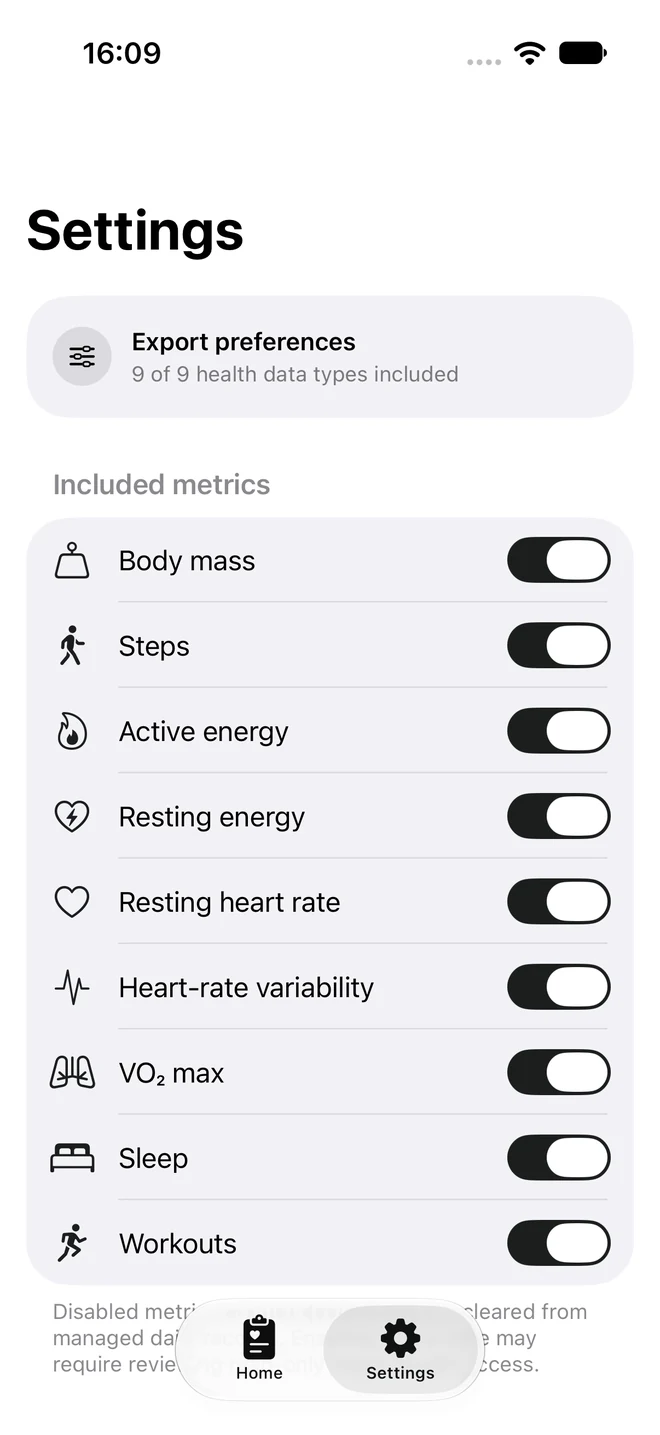
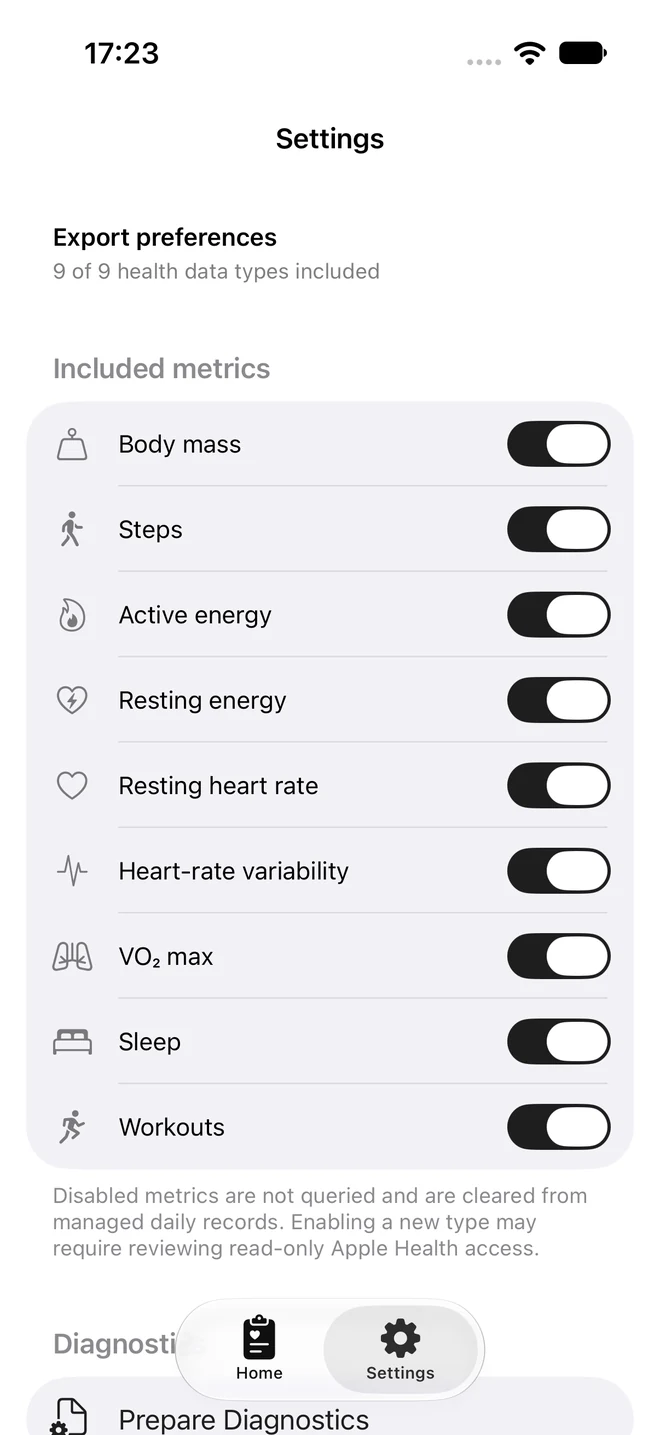
feat: refine app typography and spacing

diff --git a/HealthMuleApp/UI/Components/HealthMuleDesign.swift b/HealthMuleApp/UI/Components/HealthMuleDesign.swift
@@ -3,22 +3,22 @@ import SwiftUI
 enum HealthMuleStyle {
     static let contentWidth: CGFloat = 720
     static let pagePadding: CGFloat = 20
-    static let cardRadius: CGFloat = 20
-    static let sectionSpacing: CGFloat = 24
-    static let rowIconSize: CGFloat = 36
+    static let cardRadius: CGFloat = 18
+    static let sectionSpacing: CGFloat = 28
+    static let rowIconSize: CGFloat = 28
 
     /// One canonical scale so screens cannot drift apart. Card titles and body
     /// copy sit a step below the system defaults, which read oversized in a
     /// dense status app.
     enum Text {
-        static let heroTitle = Font.title3.weight(.semibold)
-        static let heroMessage = Font.callout
-        static let sectionTitle = Font.headline
+        static let heroTitle = Font.title2.weight(.semibold)
+        static let heroMessage = Font.subheadline
+        static let sectionTitle = Font.subheadline.weight(.semibold)
         static let sectionSubtitle = Font.footnote
         static let cardTitle = Font.subheadline.weight(.semibold)
         static let cardBody = Font.footnote
         static let factLabel = Font.caption2.weight(.medium)
-        static let factValue = Font.subheadline.weight(.semibold)
+        static let factValue = Font.subheadline.weight(.medium)
     }
 
     static var canvas: Color {
@@ -34,11 +34,11 @@ enum HealthMuleStyle {
     }
 
     static var hairline: Color {
-        Color.primary.opacity(0.07)
+        Color.primary.opacity(0.05)
     }
 
     static var inset: Color {
-        Color.primary.opacity(0.055)
+        Color.primary.opacity(0.04)
     }
 }
 
@@ -56,7 +56,7 @@ enum StatusTone: Equatable {
         case .accent:
             .primary
         case .success:
-            .green
+            .secondary
         case .warning:
             .orange
         case .danger:
@@ -101,13 +101,13 @@ struct StatusGlyph: View {
     let systemImage: String
     var tone: StatusTone = .neutral
     var size = HealthMuleStyle.rowIconSize
+    @ScaledMetric(relativeTo: .body) private var iconScale: CGFloat = 1
 
     var body: some View {
         Image(systemName: systemImage)
-            .font(.subheadline.weight(.semibold))
+            .font(.body.weight(.regular))
             .foregroundStyle(tone.color)
-            .frame(width: size, height: size)
-            .background(tone.color.opacity(0.1), in: Circle())
+            .frame(width: size * iconScale, height: size * iconScale)
             .accessibilityHidden(true)
     }
 }
@@ -187,16 +187,13 @@ struct StatusBadge: View {
         HStack(spacing: 6) {
             Circle()
                 .fill(tone.color)
-                .frame(width: 7, height: 7)
+                .frame(width: 5, height: 5)
                 .accessibilityHidden(true)
             Text(title)
-                .font(.caption.weight(.semibold))
-                .foregroundStyle(.primary)
+                .font(.caption.weight(.medium))
+                .foregroundStyle(.secondary)
                 .multilineTextAlignment(.leading)
         }
-        .padding(.horizontal, 10)
-        .padding(.vertical, 6)
-        .background(Color.primary.opacity(0.08), in: Capsule())
         .accessibilityElement(children: .combine)
     }
 }
@@ -243,28 +240,33 @@ struct StatusHero<Action: View>: View {
         VStack(alignment: .leading, spacing: 14) {
             StatusBadge(title: badge, tone: tone)
                 .accessibilityIdentifier("status-hero-badge")
-            Text(title)
-                .font(HealthMuleStyle.Text.heroTitle)
-                .accessibilityIdentifier("status-hero-title")
-            Text(message)
-                .font(HealthMuleStyle.Text.heroMessage)
-                .foregroundStyle(.secondary)
-                .accessibilityIdentifier("status-hero-message")
+            VStack(alignment: .leading, spacing: 8) {
+                Text(title)
+                    .font(HealthMuleStyle.Text.heroTitle)
+                    .accessibilityIdentifier("status-hero-title")
+                Text(message)
+                    .font(HealthMuleStyle.Text.heroMessage)
+                    .foregroundStyle(.secondary)
+                    .accessibilityIdentifier("status-hero-message")
+            }
 
             if let progress, progress.totalUnits > 0 {
                 SyncDayProgressView(progress: progress)
             }
 
             if showsActionPlaceholder {
-                RoundedRectangle(cornerRadius: 14, style: .continuous)
+                RoundedRectangle(cornerRadius: 12, style: .continuous)
                     .fill(HealthMuleStyle.inset)
                     .frame(height: 52)
                     .accessibilityHidden(true)
             } else {
                 action()
                     .frame(maxWidth: .infinity)
+                    .font(HealthMuleStyle.Text.cardTitle)
                     .buttonStyle(.borderedProminent)
+                    .buttonBorderShape(.roundedRectangle(radius: 12))
                     .tint(HealthMuleStyle.tint)
+                    .foregroundStyle(HealthMuleStyle.canvas)
                     .controlSize(.large)
             }
         }
@@ -336,7 +338,7 @@ struct SyncFactsRow: View {
             Text(fact.label)
                 .font(HealthMuleStyle.Text.factLabel)
                 .foregroundStyle(.secondary)
-                .lineLimit(1)
+                .lineLimit(compact ? 1 : nil)
             Text(shown)
                 .font(HealthMuleStyle.Text.factValue)
                 .monospacedDigit()

diff --git a/HealthMuleApp/UI/SettingsView.swift b/HealthMuleApp/UI/SettingsView.swift
@@ -2,6 +2,7 @@ import SwiftUI
 
 struct SettingsView: View {
     @Bindable var model: AppModel
+    @ScaledMetric(relativeTo: .subheadline) private var metricIconWidth: CGFloat = 22
     @State private var isShowingResetConfirmation = false
     @State private var isShowingDisconnectConfirmation = false
 
@@ -18,8 +19,9 @@ struct SettingsView: View {
                 .listRowSeparator(.hidden)
         }
         .navigationTitle("Settings")
+        .navigationBarTitleDisplayMode(.inline)
         .formStyle(.grouped)
-        .listSectionSpacing(20)
+        .listSectionSpacing(24)
         .contentMargins(.top, 12, for: .scrollContent)
         .scrollContentBackground(.hidden)
         .background(HealthMuleStyle.canvas)
@@ -56,25 +58,20 @@ struct SettingsView: View {
 
     private var overviewSection: some View {
         Section {
-            HStack(alignment: .top, spacing: 12) {
-                StatusGlyph(
-                    systemImage: "slider.horizontal.3",
-                    tone: .accent
+            VStack(alignment: .leading, spacing: 4) {
+                Text("Export preferences")
+                    .font(HealthMuleStyle.Text.sectionTitle)
+                Text(
+                    "\(model.enabledMetrics.count) of \(HealthMetric.allCases.count) health data types included"
                 )
-                VStack(alignment: .leading, spacing: 3) {
-                    Text("Export preferences")
-                        .font(HealthMuleStyle.Text.cardTitle)
-                    Text(
-                        "\(model.enabledMetrics.count) of \(HealthMetric.allCases.count) health data types included"
-                    )
-                    .font(HealthMuleStyle.Text.cardBody)
-                    .foregroundStyle(.secondary)
-                }
+                .font(HealthMuleStyle.Text.cardBody)
+                .foregroundStyle(.secondary)
             }
             .padding(.vertical, 4)
             .accessibilityElement(children: .combine)
         }
-        .listRowBackground(HealthMuleStyle.surface)
+        .listRowBackground(Color.clear)
+        .listRowInsets(EdgeInsets(top: 0, leading: 16, bottom: 0, trailing: 16))
     }
 
     private var metricsSection: some View {
@@ -84,7 +81,15 @@ struct SettingsView: View {
                     get: { model.enabledMetrics.contains(metric) },
                     set: { model.setMetric(metric, enabled: $0) }
                 )) {
-                    Label(metric.title, systemImage: metric.settingsSystemImage)
+                    Label {
+                        Text(metric.title)
+                            .font(.subheadline)
+                    } icon: {
+                        Image(systemName: metric.settingsSystemImage)
+                            .font(.subheadline)
+                            .foregroundStyle(.secondary)
+                            .frame(width: metricIconWidth)
+                    }
                 }
                 .disabled(model.operationState.isWorking)
             }

diff --git a/HealthMuleApp/UI/StatusView.swift b/HealthMuleApp/UI/StatusView.swift
@@ -39,9 +39,7 @@ struct StatusView: View {
         }
         .background(HealthMuleStyle.canvas)
         .navigationTitle("HealthMule")
-        .navigationBarTitleDisplayMode(
-            dynamicTypeSize.isAccessibilitySize ? .inline : .large
-        )
+        .navigationBarTitleDisplayMode(.inline)
         .accessibilityIdentifier("home-screen")
         .refreshable {
             await model.applicationDidBecomeActive()
@@ -174,7 +172,7 @@ struct StatusView: View {
         VStack(spacing: 0) {
             healthConnectionCard
             Divider()
-                .padding(.leading, 52)
+                .padding(.leading, 56)
             googleConnectionCard
         }
         .healthMuleCard(padding: 0)
@@ -185,7 +183,7 @@ struct StatusView: View {
             ConnectionCard(
                 title: "Apple Health",
                 detail: healthConnectionDetail,
-                systemImage: "heart.fill",
+                systemImage: "heart",
                 badge: healthConnectionBadge,
                 tone: healthConnectionTone
             )
@@ -199,7 +197,7 @@ struct StatusView: View {
             ConnectionCard(
                 title: "Google Drive",
                 detail: googleConnectionDetail,
-                systemImage: "externaldrive.fill",
+                systemImage: "externaldrive",
                 badge: googleConnectionBadge,
                 tone: googleConnectionTone
             )
@@ -283,7 +281,7 @@ struct StatusView: View {
             StatusGlyph(
                 systemImage: "clock.arrow.circlepath",
                 tone: tone,
-                size: 34
+                size: HealthMuleStyle.rowIconSize
             )
 
             VStack(alignment: .leading, spacing: 2) {
@@ -323,7 +321,7 @@ struct StatusView: View {
             StatusGlyph(
                 systemImage: "clock.arrow.circlepath",
                 tone: .neutral,
-                size: 34
+                size: HealthMuleStyle.rowIconSize
             )
 
             VStack(alignment: .leading, spacing: 2) {
@@ -840,14 +838,14 @@ private struct ConnectionCard: View {
             }
         }
         .frame(maxWidth: .infinity, alignment: .leading)
-        .padding(18)
+        .padding(16)
         .contentShape(Rectangle())
         .accessibilityElement(children: .combine)
         .accessibilityHint("Opens setup.")
     }
 
     private var standardLayout: some View {
-        HStack(alignment: .center, spacing: 14) {
+        HStack(alignment: .center, spacing: 12) {
             connectionIcon
             VStack(alignment: .leading, spacing: 4) {
                 // iOS states a row's value as trailing text rather than a

diff --git a/HealthMuleApp/UI/SyncView.swift b/HealthMuleApp/UI/SyncView.swift
@@ -539,6 +539,7 @@ private struct SyncPresentation {
 }
 
 private struct SyncActionRow: View {
+    @ScaledMetric(relativeTo: .subheadline) private var iconWidth = HealthMuleStyle.rowIconSize
     let title: String
     let subtitle: String
     let systemImage: String
@@ -549,14 +550,15 @@ private struct SyncActionRow: View {
         Button(action: action) {
             HStack(alignment: .top, spacing: 12) {
                 Image(systemName: systemImage)
-                    .font(.headline)
-                    .foregroundStyle(.primary)
+                    .font(HealthMuleStyle.Text.cardTitle)
+                    .foregroundStyle(.secondary)
+                    .frame(width: iconWidth)
                     .accessibilityHidden(true)
                 VStack(alignment: .leading, spacing: 3) {
                     Text(title)
-                        .font(.headline)
+                        .font(HealthMuleStyle.Text.cardTitle)
                     Text(subtitle)
-                        .font(.subheadline)
+                        .font(HealthMuleStyle.Text.cardBody)
                         .foregroundStyle(.secondary)
                         .multilineTextAlignment(.leading)
                 }

diff --git a/HealthMuleApp/UI/SetupView.swift b/HealthMuleApp/UI/SetupView.swift
@@ -218,6 +218,8 @@ struct SetupView: View {
                     .frame(maxWidth: .infinity)
             }
             .buttonStyle(.borderedProminent)
+            .foregroundStyle(HealthMuleStyle.canvas)
+            .buttonBorderShape(.roundedRectangle(radius: 12))
             .tint(HealthMuleStyle.tint)
             .controlSize(.large)
             .disabled(!model.isHealthKitAvailable || model.operationState.isWorking)
@@ -568,12 +570,11 @@ private struct SetupStepHeader: View {
     private var stepTitle: some View {
         HStack(alignment: .center, spacing: 10) {
             Text(number.formatted())
-                .font(.caption.weight(.semibold))
-                .foregroundStyle(.primary)
-                .frame(width: 30, height: 30)
-                .background(HealthMuleStyle.inset, in: Circle())
+                .font(.caption.monospacedDigit())
+                .foregroundStyle(.secondary)
+                .frame(width: 20, alignment: .leading)
             Text(title)
-                .font(.headline)
+                .font(HealthMuleStyle.Text.cardTitle)
         }
     }
 }

diff --git a/HealthMuleApp/UI/MetricsView.swift b/HealthMuleApp/UI/MetricsView.swift
@@ -18,7 +18,7 @@ struct MetricsView: View {
 
                             if index < model.metricStatuses.count - 1 {
                                 Divider()
-                                    .padding(.leading, 64)
+                                    .padding(.leading, 56)
                             }
                         }
                     }
@@ -107,21 +107,21 @@ private extension HealthMetric {
     var systemImage: String {
         switch self {
         case .bodyMass:
-            "scalemass.fill"
+            "scalemass"
         case .stepCount:
             "figure.walk"
         case .activeEnergy:
-            "flame.fill"
+            "flame"
         case .restingEnergy:
-            "bolt.heart.fill"
+            "bolt.heart"
         case .restingHeartRate:
-            "heart.fill"
+            "heart"
         case .hrvSDNN:
             "waveform.path.ecg"
         case .vo2Max:
-            "lungs.fill"
+            "lungs"
         case .sleep:
-            "bed.double.fill"
+            "bed.double"
         case .workouts:
             "figure.run"
         }

diff --git a/HealthMuleApp/UI/Components/ValueRow.swift b/HealthMuleApp/UI/Components/ValueRow.swift
@@ -5,13 +5,14 @@ struct ValueRow: View {
     let value: String
 
     var body: some View {
-        VStack(alignment: .leading, spacing: 4) {
+        VStack(alignment: .leading, spacing: 6) {
             Text(title)
                 .font(HealthMuleStyle.Text.factLabel)
                 .foregroundStyle(.secondary)
             Text(value)
                 .font(HealthMuleStyle.Text.factValue)
                 .monospacedDigit()
+                .fixedSize(horizontal: false, vertical: true)
                 .frame(maxWidth: .infinity, alignment: .leading)
         }
         .accessibilityElement(children: .ignore)
